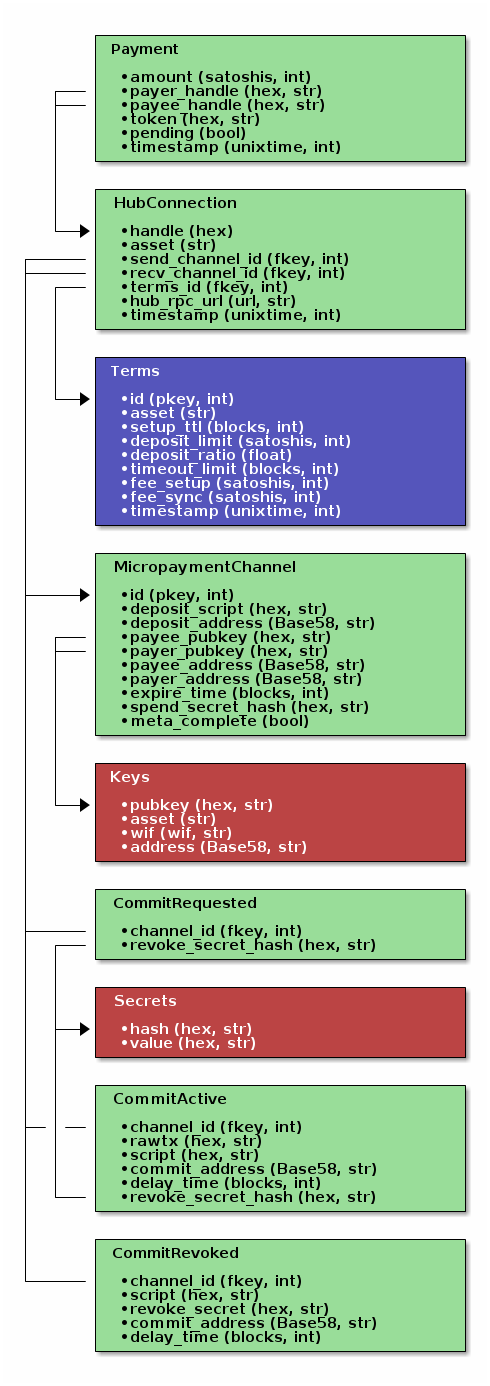
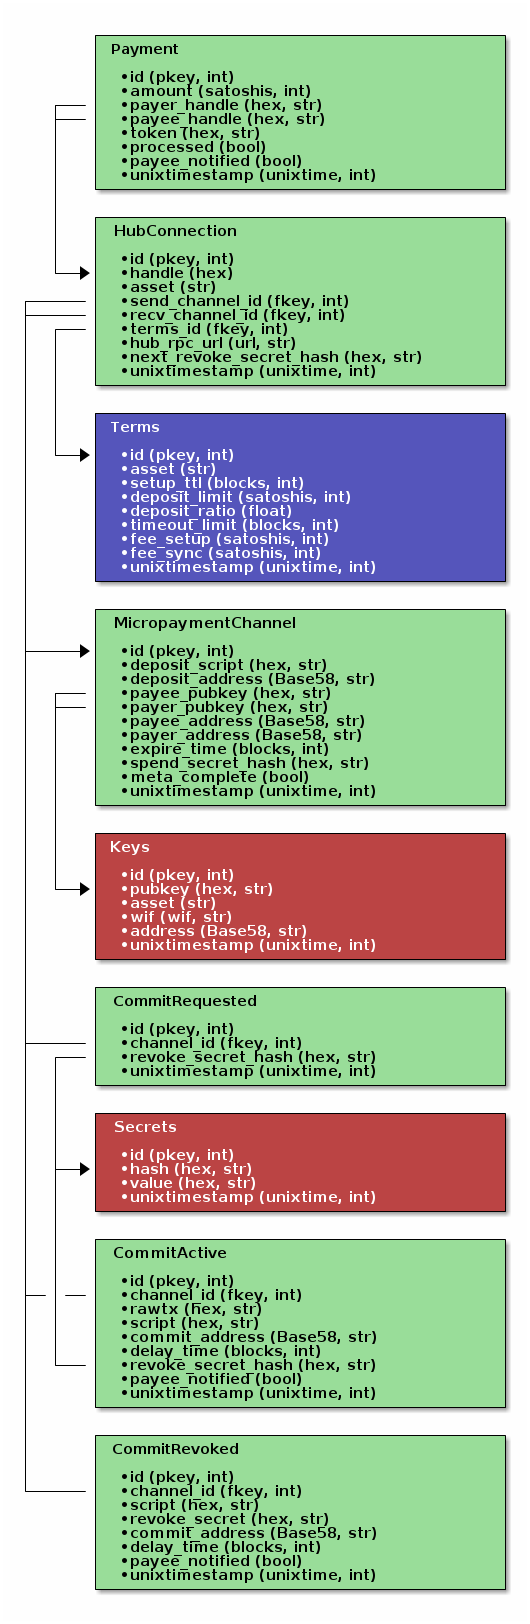
fetch unnotified commits/revokes/payments for sync and mark as notified

diff --git a/picopayments/ctrl.py b/picopayments/ctrl.py
@@ -214,13 +214,6 @@ def update_channel_state(state, commit, revokes):
     return state
 
 
-def process_payments(handle):
-    # TODO implement
-    send_commit = None
-    send_revokes = []
-    return send_commit, send_revokes
-
-
 def sync_hub_connection(handle, next_revoke_secret_hash,
                         sends, commit, revokes):
 
@@ -230,6 +223,7 @@ def sync_hub_connection(handle, next_revoke_secret_hash,
     hub_connection = db.hub_connection(handle, cursor=cursor)
     asset = hub_connection["asset"]
     recv_id = hub_connection["recv_channel_id"]
+    send_id = hub_connection["send_channel_id"]
     recv_state = load_channel_state(recv_id, asset, cursor=cursor)
     before_recv_state = copy.deepcopy(recv_state)
     recv_state = update_channel_state(recv_state, commit, revokes)
@@ -242,17 +236,24 @@ def sync_hub_connection(handle, next_revoke_secret_hash,
     db.add_payments(sends, cursor=cursor)
     cursor.execute("COMMIT;")
 
-    # process payments
-    send_commit, send_revokes = process_payments(handle)
-
-    # load payments not received and mark as received
-    receive_payments = db.unnotified_payments(handle)
+    # load unnotified
+    send_commits = db.unnotified_transfers(handle)
+    send_revokes = db.unnotified_revokes(send_id)
+    receive_payments = db.unnotified_payments(send_id)
 
     cursor.execute("BEGIN TRANSACTION;")
 
-    # mark as received
+    # mark payments as received
     payment_ids = [p.pop("id") for p in receive_payments]
     db.set_payments_notified(payment_ids, cursor=cursor)
+
+    # mark commits as received
+    commit_ids = [p.pop("id") for p in send_commits]
+    db.set_commitss_notified(commit_ids, cursor=cursor)
+
+    # mark revokes as received
+    revoke_ids = [p.pop("id") for p in send_revokes]
+    db.set_revokes_notified(revoke_ids, cursor=cursor)
 
     # create and save next spend secret
     data = create_secret()
@@ -263,7 +264,7 @@ def sync_hub_connection(handle, next_revoke_secret_hash,
 
     return {
         "receive": receive_payments,
-        "commit": send_commit,
-        "revokes": send_revokes,
+        "commits": send_commits,
+        "revokes": [r["revoke_secret"] for r in send_revokes],
         "next_revoke_secret_hash": data["secret_hash"]
     }

diff --git a/picopayments/db.py b/picopayments/db.py
@@ -20,6 +20,8 @@ _HUB_CONNECTION = "SELECT * FROM HubConnection where handle = :handle"
 _MICROPAYMENT_CHANNEL = "SELECT * FROM MicropaymentChannel WHERE id = :id"
 _HANDLE_EXISTS = "SELECT EXISTS(SELECT * FROM HubConnection WHERE handle = ?);"
 _UNNOTIFIED_PAYMENTS = _sql("unnotified_payments")
+_UNNOTIFIED_COMMITS = _sql("unnotified_commits")
+_UNNOTIFIED_REVOKES = _sql("unnotified_revokes")
 _RECEIVE_CHANNEL = _sql("receive_channel")
 _COMMITS_REQUESTED = _sql("commits_requested")
 _COMMITS_ACTIVE = _sql("commits_active")
@@ -33,7 +35,9 @@ _ADD_COMMIT_ACTIVE = _sql("add_commit_active")
 _ADD_COMMIT_REVOKED = _sql("add_commit_revoked")
 _RM_COMMITS = _sql("rm_commits")
 _COMPLETE_HUB_CHANNELS = _sql("complete_hub_channels")
-_SET_PAYMENT_NOTIFIED = "UPDATE Payment SET payee_notified = 1 WHERE id = :id;"
+_SET_PAYMENT_NOTIFIED = _sql("set_payment_notified")
+_SET_COMMIT_NOTIFIED = _sql("set_commit_notified")
+_SET_REVOKE_NOTIFIED = _sql("set_revoke_notified")
 _SET_NEXT_REVOKE_SECRET_HASH = _sql("set_next_revoke_secret_hash")
 
 
@@ -203,6 +207,24 @@ def unnotified_payments(handle):
 def set_payments_notified(payment_ids, cursor=None):
     cursor = cursor or get_cursor()
     cursor.executemany(_SET_PAYMENT_NOTIFIED, payment_ids)
+
+
+def unnotified_commits(channel_id):
+    return _all(_UNNOTIFIED_COMMITS, {"channel_id": channel_id})
+
+
+def set_commits_notified(commit_ids, cursor=None):
+    cursor = cursor or get_cursor()
+    cursor.executemany(_SET_COMMIT_NOTIFIED, commit_ids)
+
+
+def unnotified_revokes(channel_id):
+    return _all(_UNNOTIFIED_REVOKES, {"channel_id": channel_id})
+
+
+def set_revokes_notified(revoke_ids, cursor=None):
+    cursor = cursor or get_cursor()
+    cursor.executemany(_SET_REVOKE_NOTIFIED, revoke_ids)
 
 
 def add_revoke_secret(channel_id, secret_hash, secret_value, cursor=None):

diff --git a/tests/api_mpc_hub_sync.py b/tests/api_mpc_hub_sync.py
@@ -1,34 +1,26 @@
-import os
 import shutil
 import unittest
 import tempfile
-from pycoin.serialize import b2h
-from counterpartylib.lib.micropayments import util
-from counterpartylib.lib.micropayments.scripts import compile_deposit_script
 from picopayments import ctrl
+# from picopayments import api
+from counterpartylib.lib.micropayments import util
 from picopayments import api
-import jsonschema
+from pycoin.serialize import b2h
+import os
+from counterpartylib.lib.micropayments.scripts import compile_deposit_script
 
 
-DEPOSIT_RESULT_SCHEMA = {
-    "type": "object",
-    "properties": {
-        "deposit_script": {"type": "string"},
-        "next_revoke_secret_hash": {"type": "string"},
-    },
-    "required": ["deposit_script", "next_revoke_secret_hash"],
-    "additionalProperties": False
-}
-
-
-class TestMpcHubDeposit(unittest.TestCase):
+class TestMpcHubTerms(unittest.TestCase):
 
     def setUp(self):
         self.root = tempfile.mkdtemp(prefix="picopayments_test_")
         ctrl.initialize(["--testnet", "--root={0}".format(self.root)])
 
+        # TODO copy test db
+
     def tearDown(self):
-        shutil.rmtree(self.root)
+        # shutil.rmtree(self.root)
+        pass
 
     def test_standard_usage_xcp(self):
 
@@ -53,13 +45,3 @@ class TestMpcHubDeposit(unittest.TestCase):
             handle, client2hub_deposit_script,
             util.hash160hex(util.b2h(os.urandom(32)))
         )
-        self.assertIsNotNone(result)
-        jsonschema.validate(result, DEPOSIT_RESULT_SCHEMA)
-
-        # TODO test send channel updated
-        # TODO test receive channel updated
-        # TODO test secret saved
-
-
-if __name__ == "__main__":
-    unittest.main()

diff --git a/picopayments/validate.py b/picopayments/validate.py
@@ -5,11 +5,11 @@
 
 import re
 import jsonschema
-from picopayments import db
 from counterpartylib.lib.micropayments import validate
 from . import exceptions
 from . import terms
 from . import db
+from . import cfg
 from . import ctrl
 
 
@@ -93,13 +93,16 @@ def deposit_input(handle, deposit_script, next_revoke_secret_hash):
 
 
 def is_recv_commit(handle, commit_rawtx, commit_script):
+    netcode = "XTN" if cfg.testnet else "BTC"
     recv_channel = db.receive_channel(handle)
     deposit_utxos = ctrl.counterparty_call(
         method="get_unspent_txouts",
         params={"address": recv_channel["deposit_address"]}
     )
-    validate.commit_rawtx(deposit_utxos, commit_rawtx, recv_channel["asset"],
-                          deposit_script, commit_script, netcode)
+    validate.commit_rawtx(
+        deposit_utxos, commit_rawtx, recv_channel["asset"],
+        recv_channel["deposit_script"], commit_script, netcode
+    )
 
 
 def sync_input(handle, next_revoke_secret_hash, sends, commit, revokes):
@@ -125,4 +128,4 @@ def sync_input(handle, next_revoke_secret_hash, sends, commit, revokes):
 
     # make sure all handles actually exist
     if not db.handles_exist(handles):
-        raise exception.HandlesNotFound(handles)
+        raise exceptions.HandlesNotFound(handles)

diff --git a/setup.py b/setup.py
@@ -13,7 +13,7 @@ setup(
     scripts=['picopayments/bin/picopayments'],
     description="Decentral micropayment hub for counterparty assets.",
     long_description=open("README.rst").read(),
-    keywords="storj, reference, protocol, DHT",
+    keywords="storj, counterparty, micropayment, hub",
     url='http://storj.io',
     author='Fabian Barkhau',
     author_email='fabian.barkhau@gmail.com',

diff --git a/tests/api_mpc_hub_terms.py b/tests/api_mpc_hub_terms.py
@@ -14,7 +14,7 @@ class TestMpcHubTerms(unittest.TestCase):
     def tearDown(self):
         shutil.rmtree(self.root)
 
-    def test_mpc_hub_terms(self):
+    def test_standard_usage_xcp(self):
         # TODO test input validation
 
         # test gets all

diff --git a/README.rst b/README.rst
@@ -200,7 +200,7 @@ mpc_hub_sync
             "amount": satoshis, 
             "token": "hex"
         }],
-        "commit": {"rawtx": "hex", "script": "hex"},
+        "commits": [{"rawtx": "hex", "script": "hex"}],
         "revokes": ["hex"],
         "next_revoke_secret_hash": "hex"  # client to hub channel
     }
